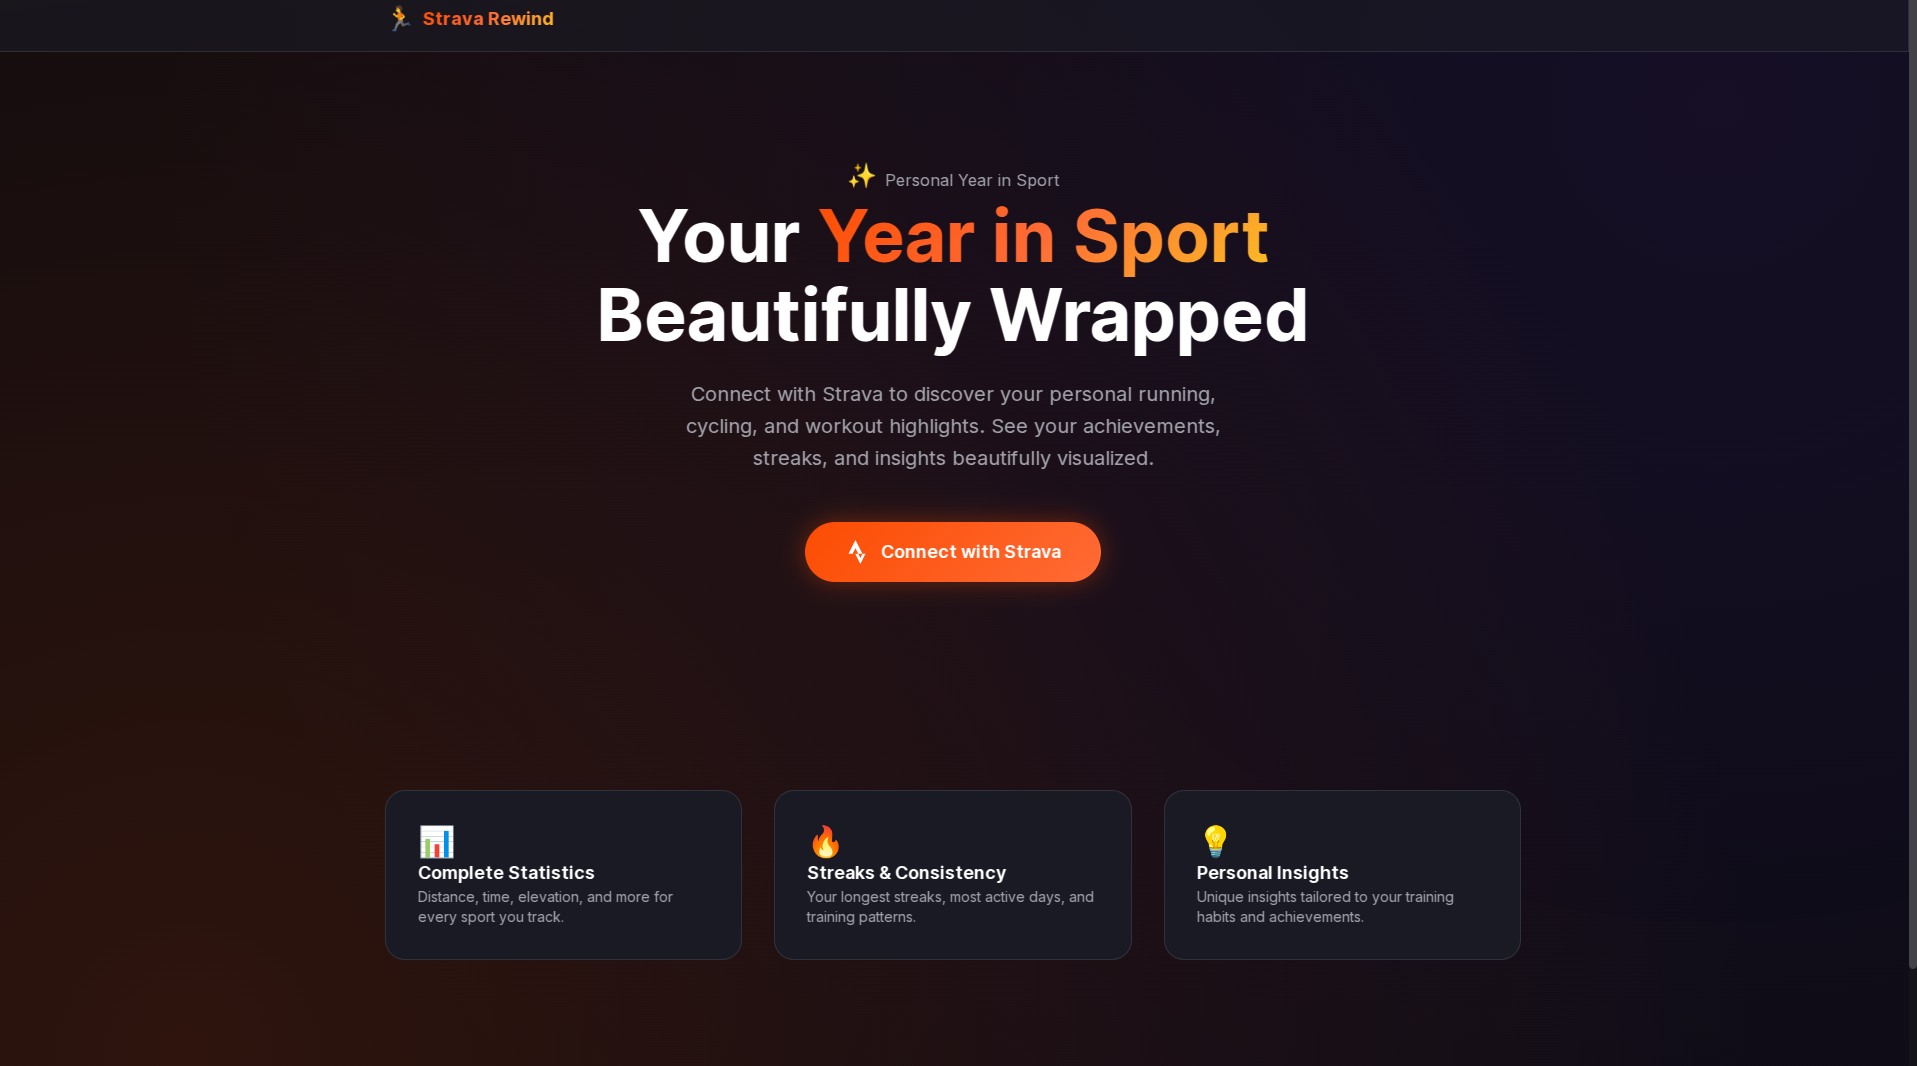
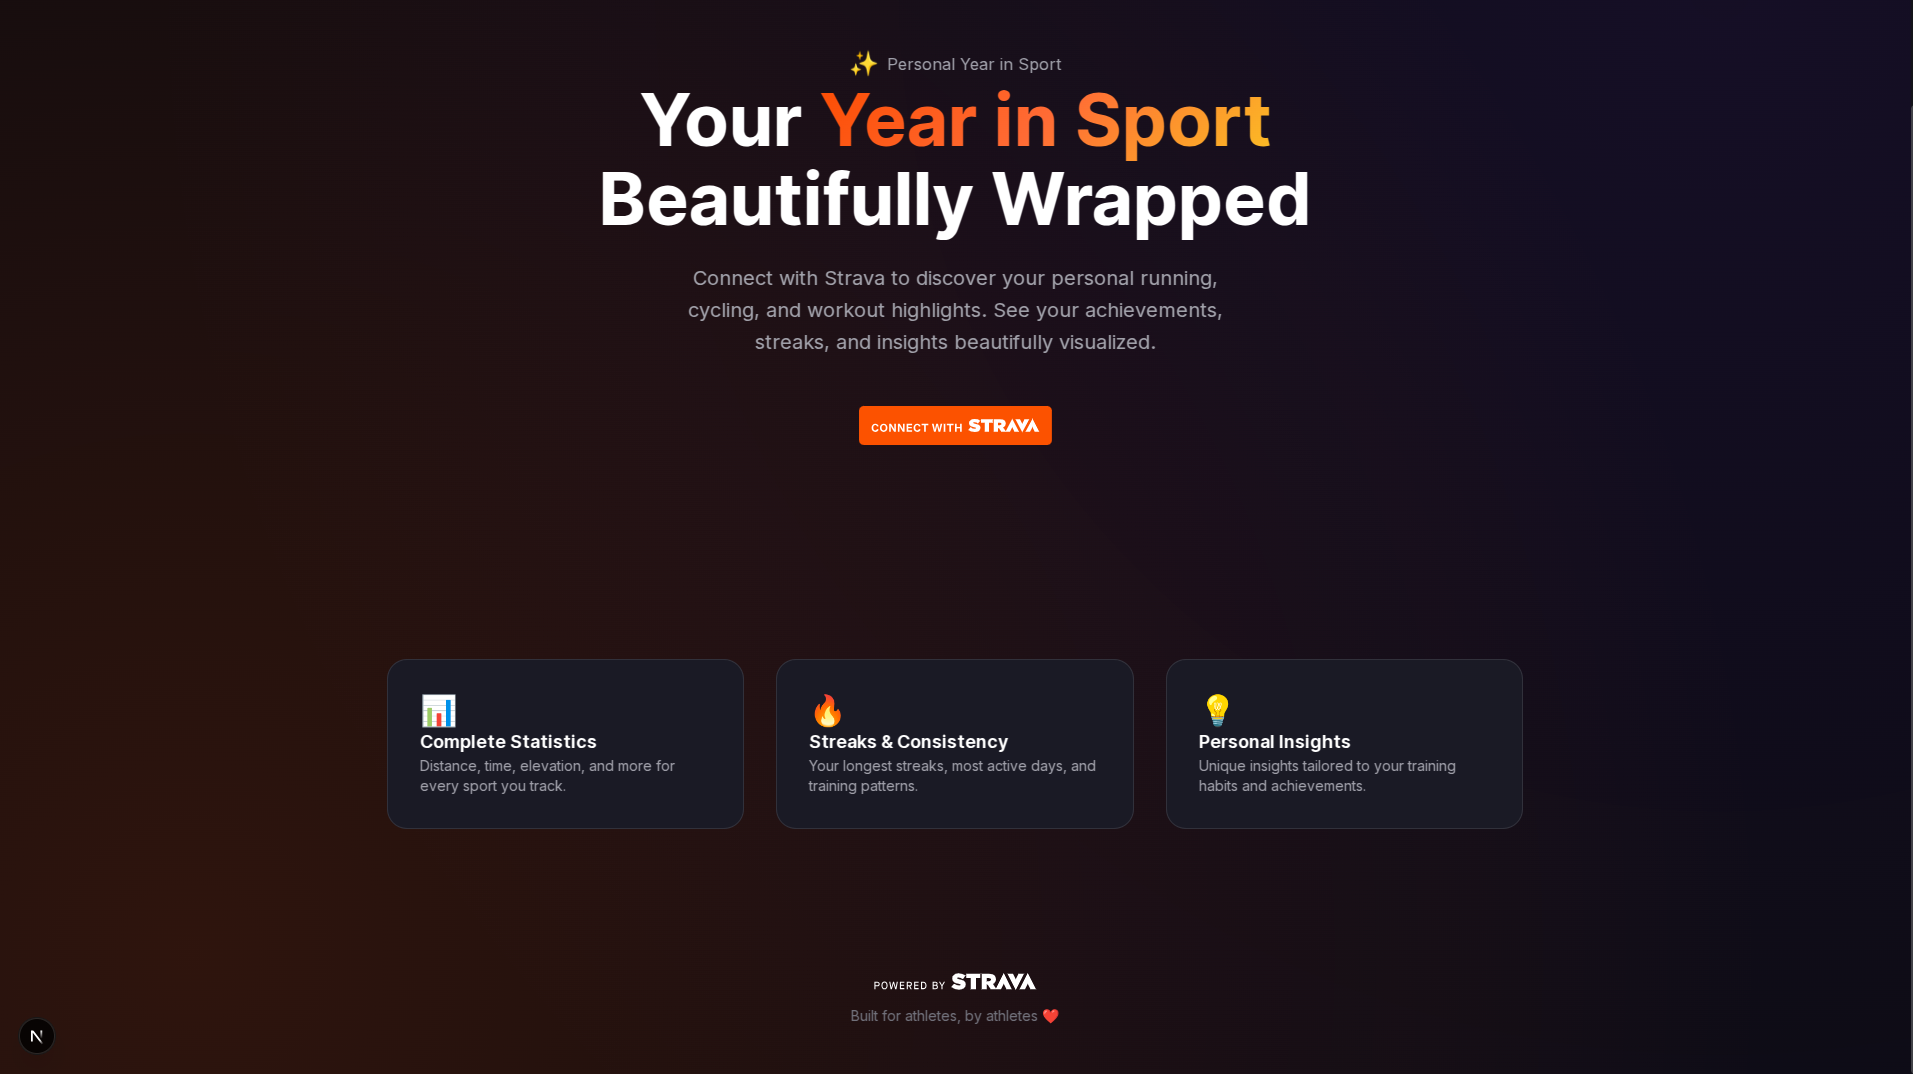
feat: implement Strava brand guidelines compliance

diff --git a/src/app/page.tsx b/src/app/page.tsx
@@ -1,5 +1,6 @@
 // Landing Page - Connect with Strava
 import Link from "next/link";
+import Image from "next/image";
 
 export default function Home() {
   return (
@@ -42,16 +43,19 @@ export default function Home() {
             beautifully visualized.
           </p>
 
-          {/* CTA Button */}
+          {/* CTA Button - Official Strava Connect Button */}
           <div className="hero-cta">
             <Link
               href="/api/auth/login"
-              className="btn-primary text-lg animate-pulse-glow"
+              className="inline-block hover:opacity-90 transition-opacity"
             >
-              <svg className="w-6 h-6" viewBox="0 0 24 24" fill="currentColor">
-                <path d="M15.387 17.944l-2.089-4.116h-3.065L15.387 24l5.15-10.172h-3.066m-7.008-5.599l2.836 5.598h4.172L10.463 0l-7 13.828h4.169" />
-              </svg>
-              Connect with Strava
+              <Image
+                src="/strava/btn_strava_connect_with_orange.svg"
+                alt="Connect with Strava"
+                width={193}
+                height={48}
+                priority
+              />
             </Link>
           </div>
         </div>
@@ -71,7 +75,7 @@ export default function Home() {
             <div className="stat-card">
               <div className="text-3xl mb-4">🔥</div>
               <h3 className="font-semibold text-lg mb-2">
-                Streaks & Consistency
+                Streaks &amp; Consistency
               </h3>
               <p className="text-zinc-400 text-sm">
                 Your longest streaks, most active days, and training patterns.
@@ -91,9 +95,18 @@ export default function Home() {
 
       {/* Footer */}
       <footer className="site-footer relative z-10">
-        <p>
-          Not affiliated with Strava Inc. • Built for athletes, by athletes ❤
-        </p>
+        <div className="flex flex-col items-center gap-4">
+          {/* Powered by Strava logo */}
+          <Image
+            src="/strava/api_logo_pwrdBy_strava_horiz_white.svg"
+            alt="Powered by Strava"
+            width={162}
+            height={30}
+          />
+          <p className="text-zinc-500 text-sm">
+            Built for athletes, by athletes ❤
+          </p>
+        </div>
       </footer>
     </div>
   );

diff --git a/src/app/dashboard/page.tsx b/src/app/dashboard/page.tsx
@@ -668,7 +668,17 @@ export default function Dashboard() {
 
       {/* Footer */}
       <footer className="site-footer">
-        <p>Made with ❤ for athletes everywhere</p>
+        <div className="flex flex-col items-center gap-4">
+          <Image
+            src="/strava/api_logo_pwrdBy_strava_horiz_white.svg"
+            alt="Powered by Strava"
+            width={162}
+            height={30}
+          />
+          <p className="text-zinc-500 text-sm">
+            Made with ❤ for athletes everywhere
+          </p>
+        </div>
       </footer>
     </div>
   );

diff --git a/README.md b/README.md
@@ -22,8 +22,7 @@ Table of Contents:
   - [3.1. Landing Page](#31-landing-page)
   - [3.2. Dashboard](#32-dashboard)
 
-> [!IMPORTANT]
-> **Why do I create this?** The Strava Year in Sport stats round-up of a user's activity from the past 12 months is along the lines of similar features offered by other apps, such as Spotify Wrapped. However, while many, like Spotify, give all users the round-up regardless of if they use the free version or pay for a subscription, Strava has put its Year in Sport behind a paywall as a paid feature.
+> [!IMPORTANT] > **Why do I create this?** The Strava Year in Sport stats round-up of a user's activity from the past 12 months is along the lines of similar features offered by other apps, such as Spotify Wrapped. However, while many, like Spotify, give all users the round-up regardless of if they use the free version or pay for a subscription, Strava has put its Year in Sport behind a paywall as a paid feature.
 >
 > If you wonder, the [logo.png](./images/logo.png) is generated by Gemini Nano Banana Pro.
 
@@ -106,4 +105,6 @@ Connect with your Strava account to get started.
 
 View your complete year in sport with statistics, insights, and more.
 
-![](./images/dashboard.png)
+![](./images/dashboard1.png)
+
+![](./images/dashboard2.png)
